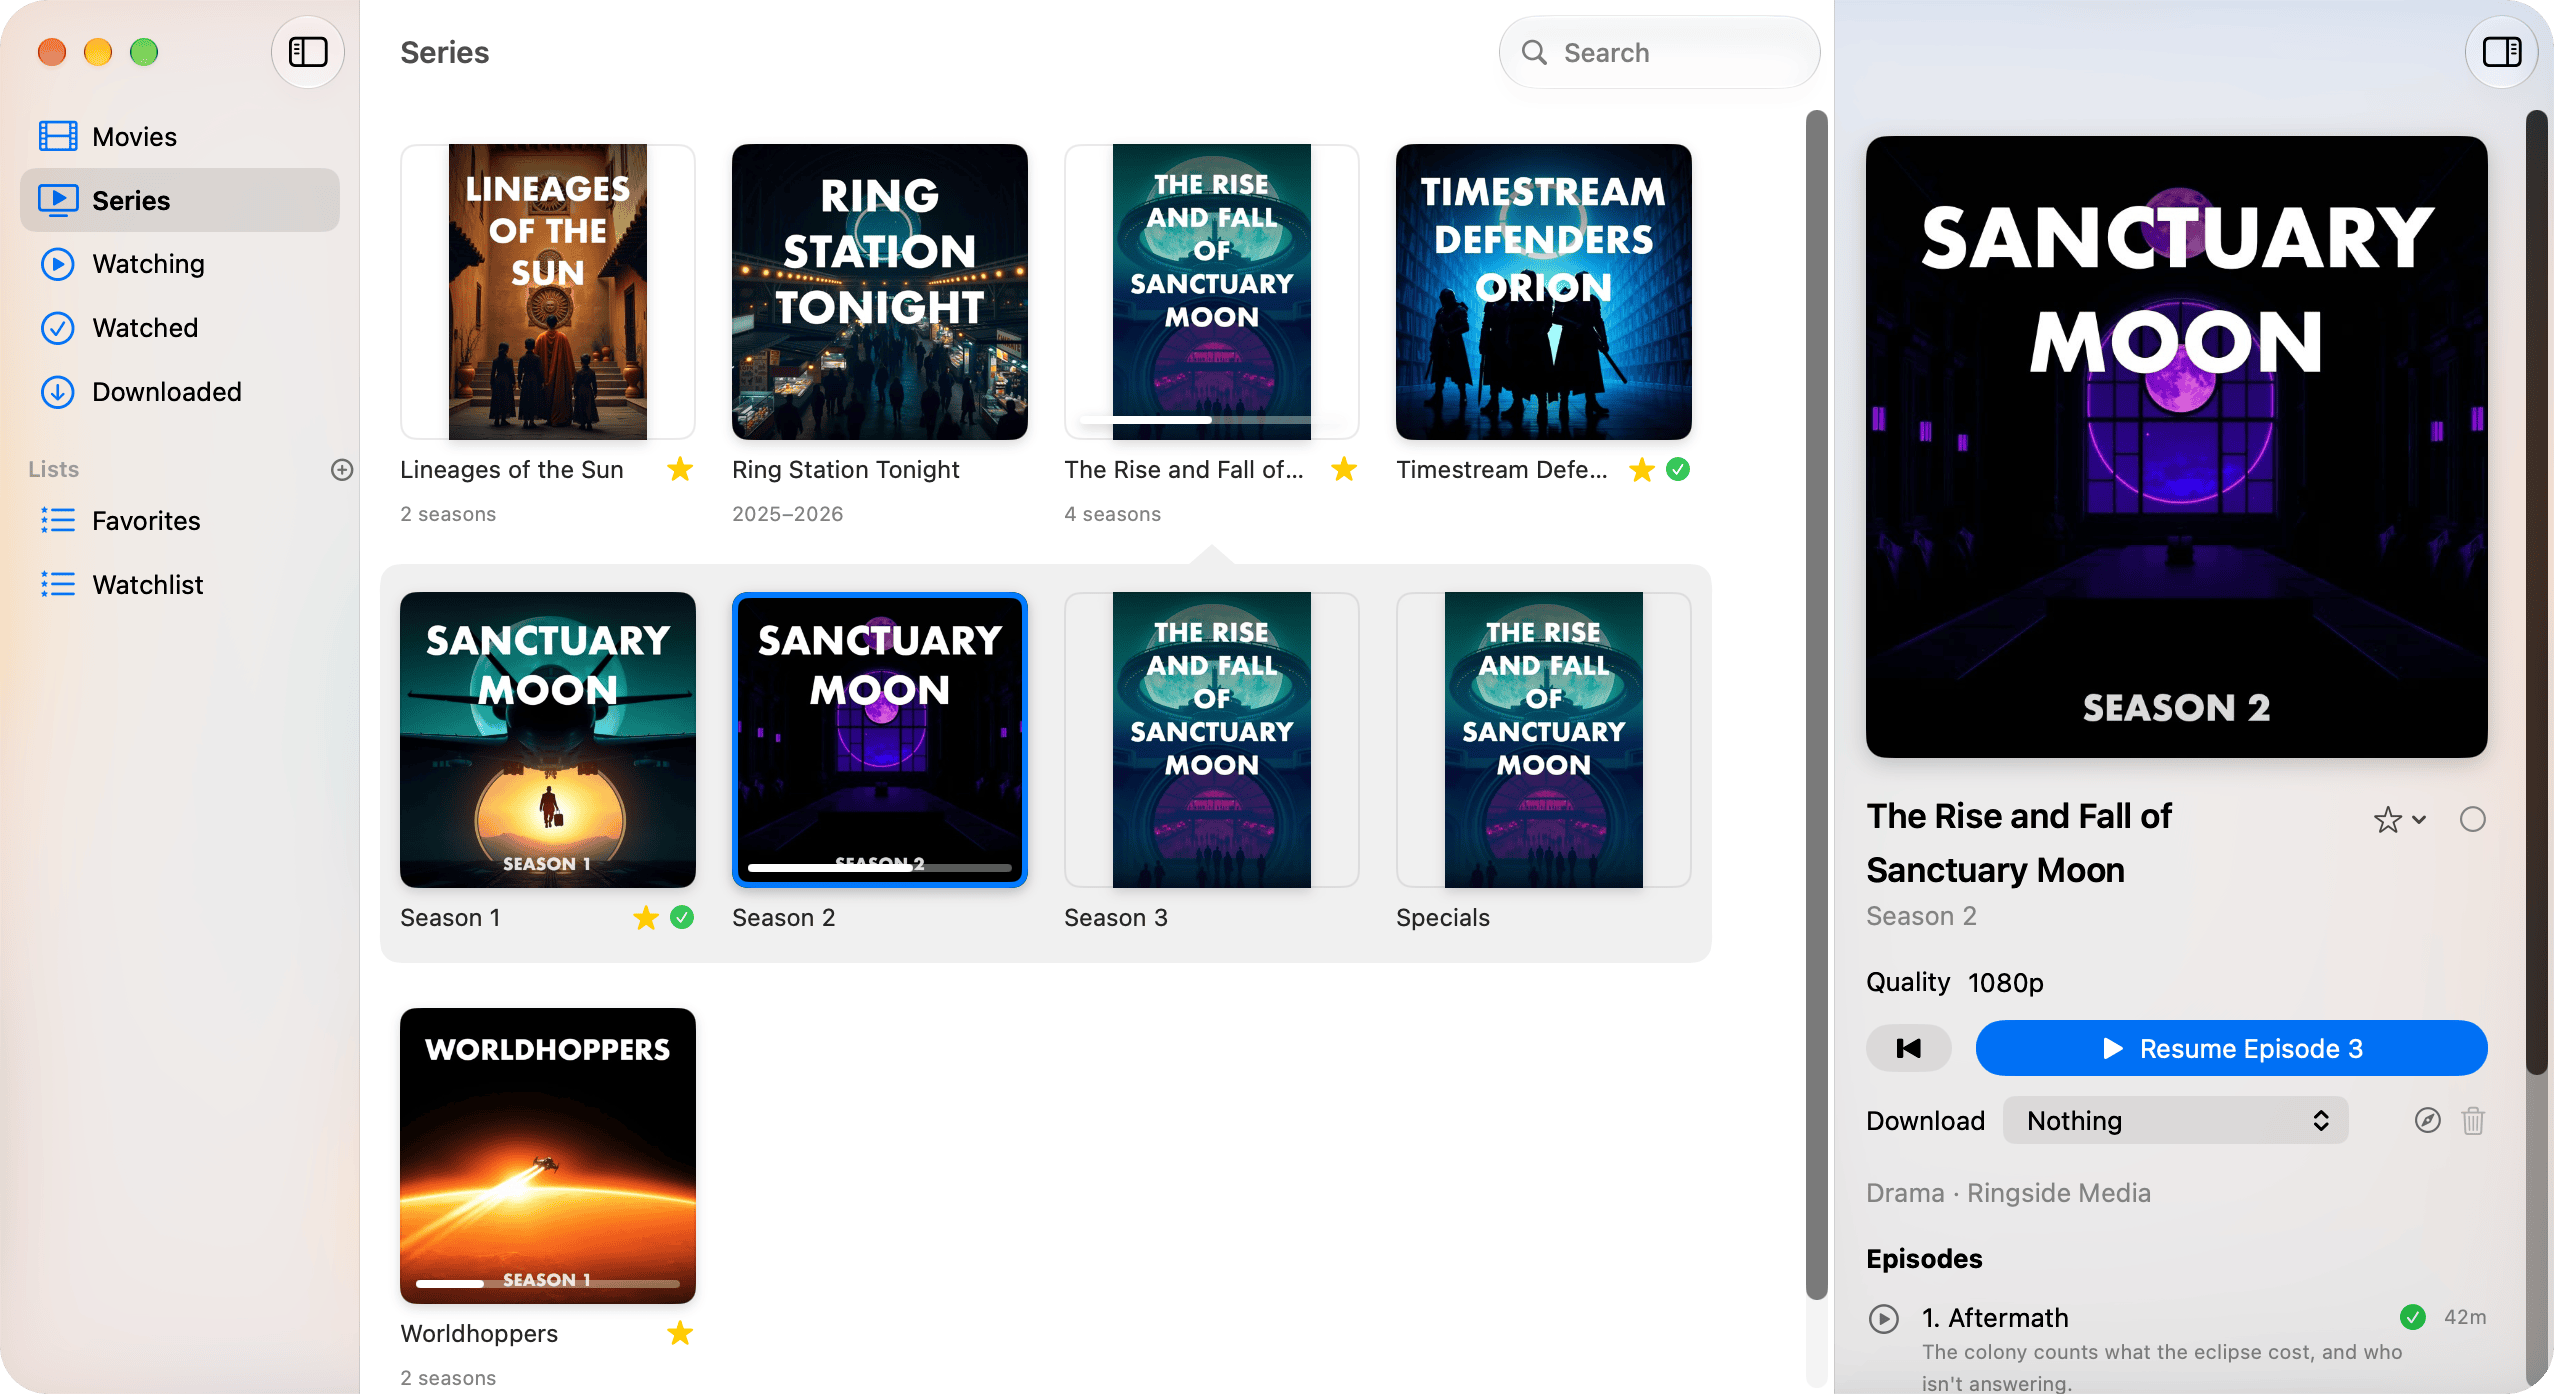
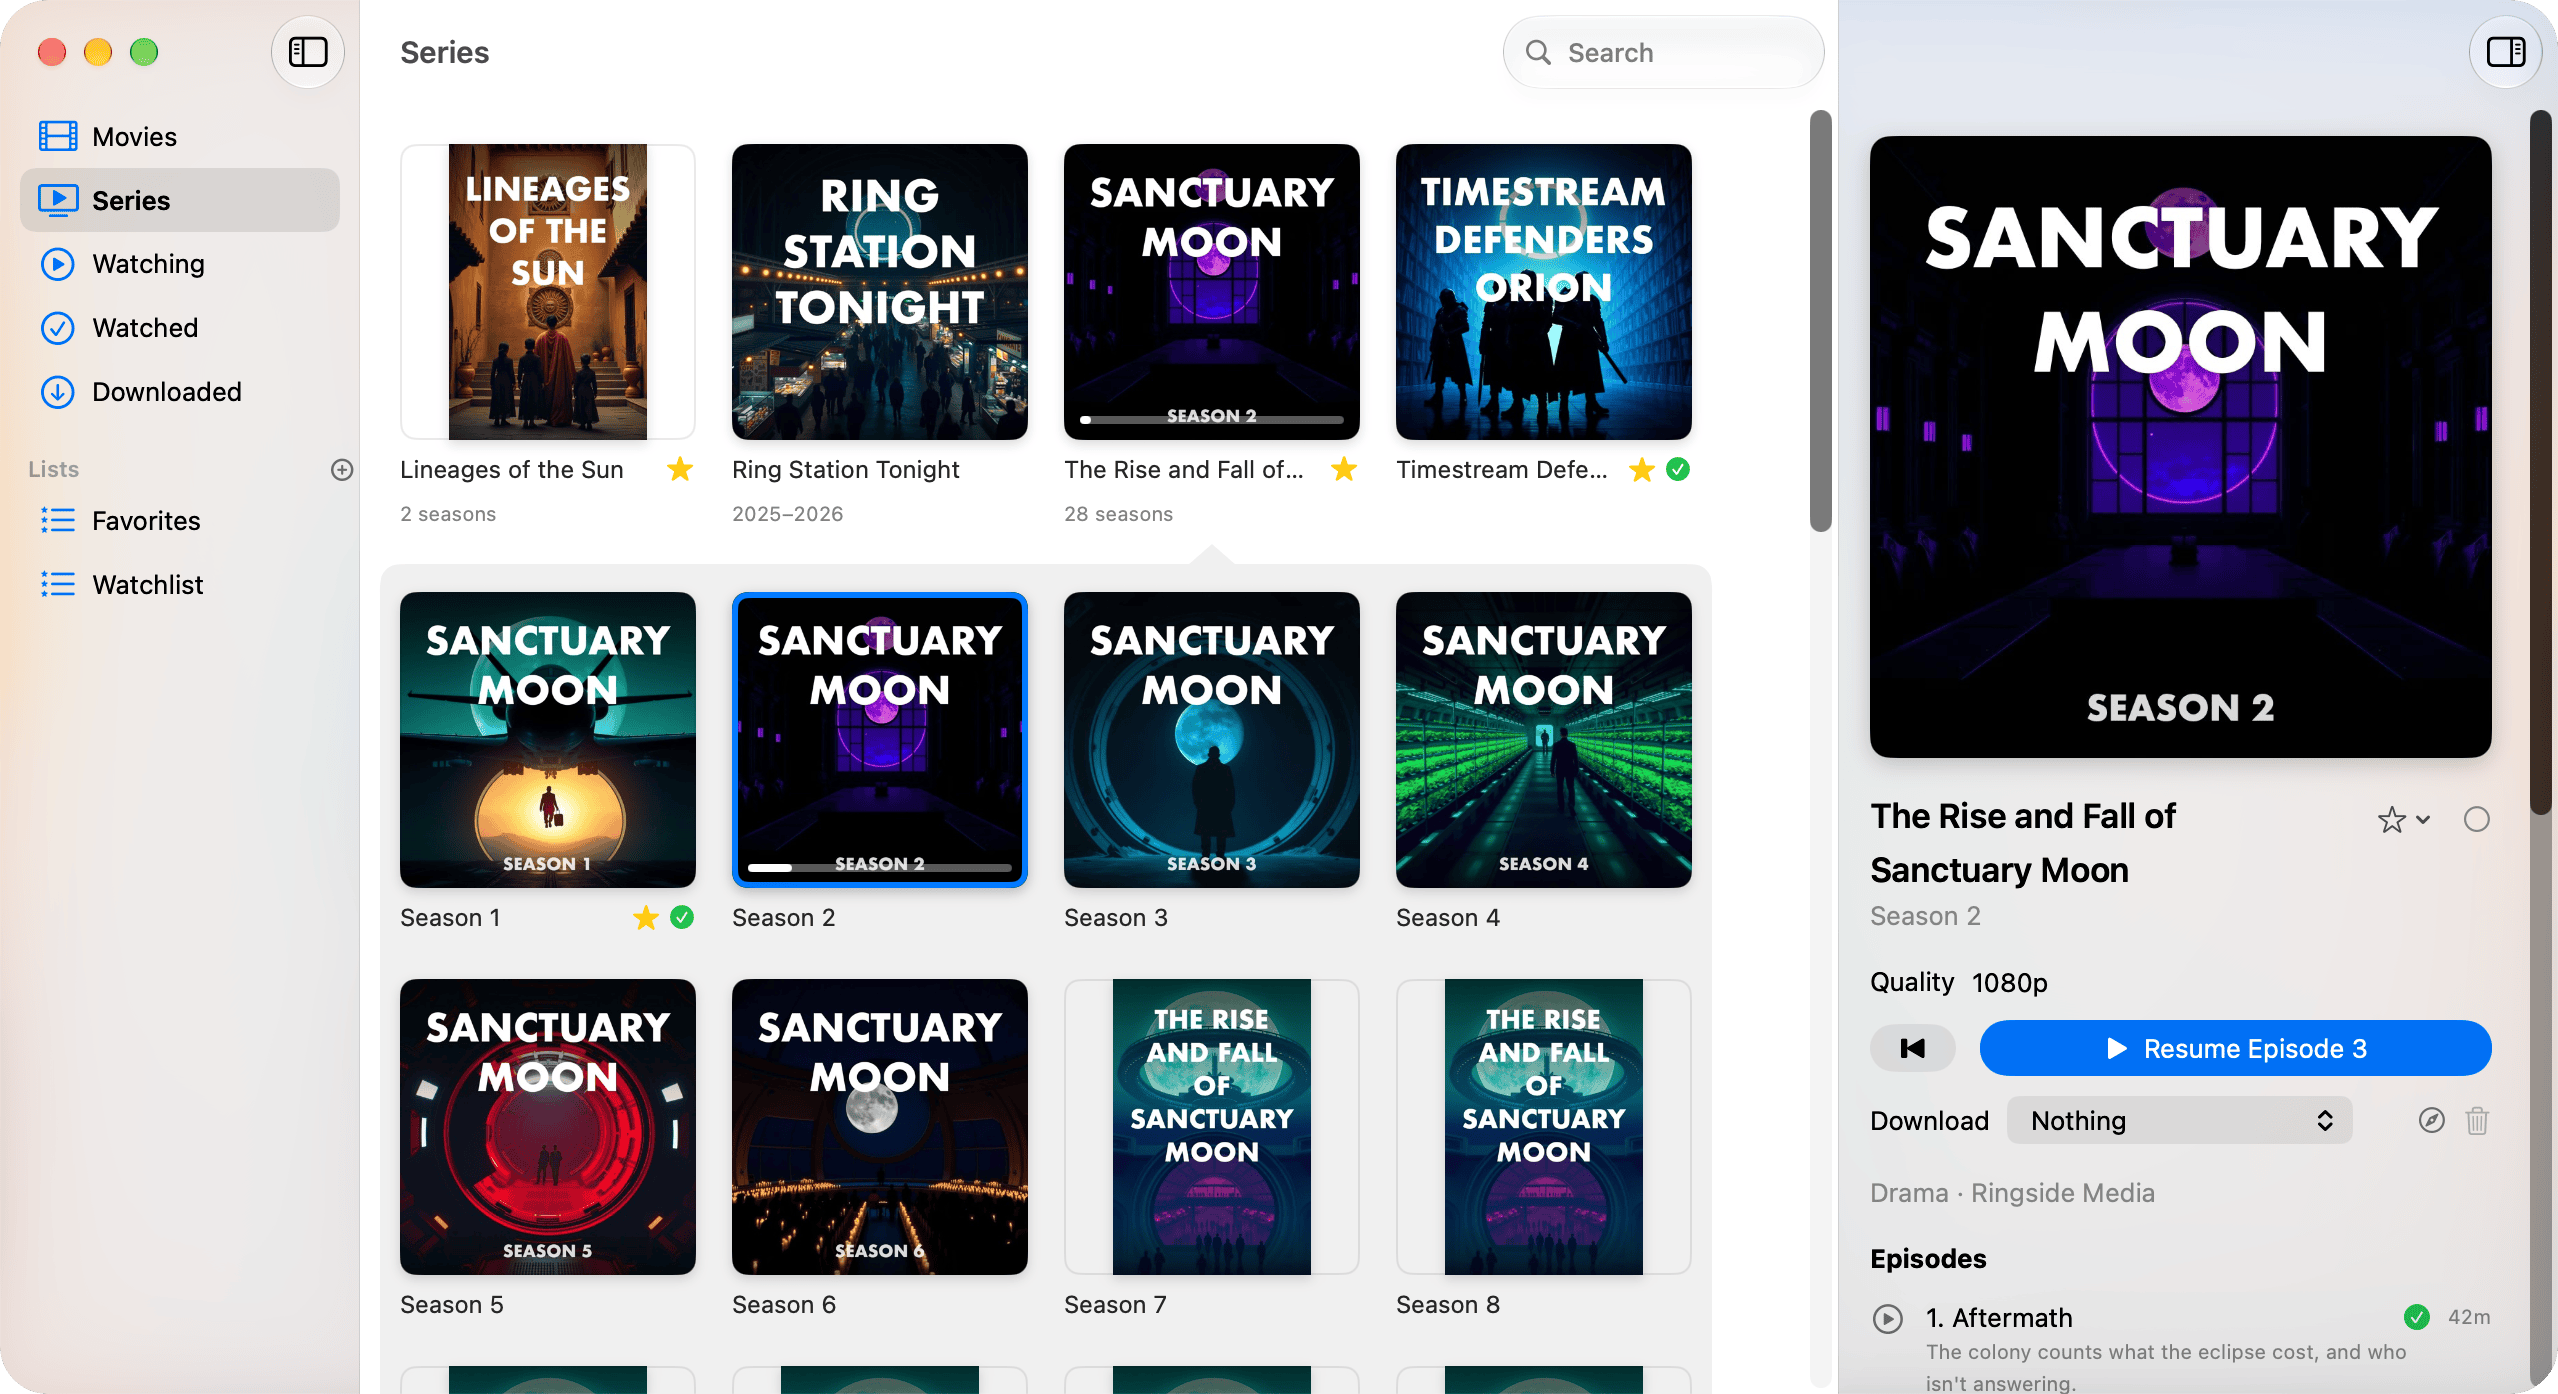
Screenshots: made again, the Mac's window sized once the Local Network prompt's answered

diff --git a/DEVELOPMENT.md b/DEVELOPMENT.md
@@ -10,7 +10,7 @@ When each routine task was last done, and the commit it looked at (or made), so 
 | --- | --- | --- | --- |
 | Security audit | 2026-11-20 | `8d96a14` | Its fixes through `8fc7843`; the limits it left under [What members are trusted with](#sync) |
 | Code review | 2026-11-22 | `1f012f1` | Since the audit; its high and medium findings fixed through `a18e45d`, its low ones since, one left as a limit under [What members are trusted with](#sync) |
-| Screenshots | 2026-11-23 | `773bebf` | [tools/screenshots.sh](tools/screenshots.sh): every player, the hero, and the loop (`video`) |
+| Screenshots | 2026-11-24 | `e35f8d2` | [tools/screenshots.sh](tools/screenshots.sh): every player and the hero, on the mock library's 28 seasons; the loop (`video`) as of `773bebf` |
 
 ## Practice
 

diff --git a/CHANGELOG.md b/CHANGELOG.md
@@ -4,6 +4,7 @@ All notable changes to Cinematheque are recorded here.
 
 ## Unreleased
 
+* Screenshots made again: series tiles showing their season to watch, and the mock library's longer Sanctuary Moon. The screenshot script answers macOS's Local Network prompt before sizing the Mac's window, as the prompt keeps it from resizing.
 * Mac: Settings' Devices and Sources line their names up, each row's symbol in one width.
 * The mock library's Sanctuary Moon has 28 seasons of 419 episodes, and Worldhoppers two of 12, as the Murderbot Diaries have them; its first six seasons and its special have art of their own.
 * Apple TV, iPhone, and Mac: an episode's or version's watched mark lines up down the list, whatever the width of each runtime.
